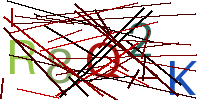
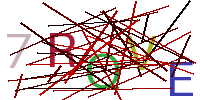
капча починка

diff --git a/static/javascript/captcha.js b/static/javascript/captcha.js
@@ -14,7 +14,7 @@ function new_captcha() {
             "Content-Type": "application/json",
         }
     });
-    $("#captcha_photo").html('<img src="/captcha.png/' + generatedCode + '{}">')
+    $("#captcha_photo").html('<img src="/captcha.png/' + generatedCode + '">')
 }
 
     $(document).ready(function() {

diff --git a/templates/index.html b/templates/index.html
@@ -10,8 +10,7 @@
       {% endif %}
     <div class="postcontent">
         <a href="{{post.href}}" class="post-title">{{post.title}}</a>
-        <p>{{post.text}}</p>
-        <p class="author"> Автор:</p>
+        <p>{{post.short}}</p>
     </div>
 </div>
   {%endfor%}

diff --git a/templates/post.html b/templates/post.html
@@ -60,7 +60,7 @@
 <div class="post-container">
 
     <h2>{{post.title}}</h2>
-    <p>{{post.content}}</p>
+    <p>{{content}}</p>
     {%for i in paths%}
     <img src="../{{i}}" style="width: 200px; height:150px;">
     {%endfor%}

diff --git a/static/css/style.css b/static/css/style.css
@@ -148,6 +148,7 @@ body {
             border-radius: 8px;
             background: #f9f9f9;
         }
+
 .container {
     max-width: 900px;
     margin: 60px auto;

diff --git a/data/functions.py b/data/functions.py
@@ -110,6 +110,30 @@ def captcha(word):
     # создаем объект в буфере
     f = BytesIO()
     # сохраняем капчу в буфер
-    img.save('captcha_image.png', "PNG")
+    img.save('materials/captcha_image.png', "PNG")
     # возвращаем капчу как байтовый объект
     return f.getvalue()
+
+def parse_post(content, post_id):
+    parsed = ''
+    tag_opened = False
+    tag = ''
+    for i in content:
+        if i == '<':
+            parsed += '<br>'
+            tag_opened = True
+            continue
+        if tag_opened:
+            if i == '-':
+               tag = '-'
+               continue
+            elif i == '>':
+                tag_opened = False
+                if tag == '-':
+                    parsed += '<br>'
+                else:
+                    parsed += f'<img src="/static/image/post_pictures/{post_id}_{tag}"<br>'
+        else:
+            parsed += i
+    return parsed
+

diff --git a/main.py b/main.py
@@ -277,12 +277,13 @@ def postt(id):
     else:
         user = 0
     post_ = post.to_dict()
+    content = parse_post(post.content, post.id)
     comments = []
     for i in post.comments:
         comments.append((i.content, i.user.name, i.user.href))
     session.commit()
     session.close()
-    return render_template('post.html', post=post_, p_id=post_['id'], button_text=button_text,
+    return render_template('post.html', post=post_, content=content, p_id=post_['id'], button_text=button_text,
                            paths=photo_paths, tags=session.query(Tag).all(), comment_form=comment_form,
                            author_name=author['name'], author_href=author['href'], comments=comments,
                            user=user, liked=liked)

diff --git a/tests.py b/tests.py
@@ -32,7 +32,12 @@ def make_db():
 
 
 def main():
-    make_db()
+    db_session.global_init('db/wikiforum.db')
+    sess = db_session.create_session()
+    posts = sess.query(Post).all()
+    for i in posts:
+        print(i.content)
+
 
 main()
 

diff --git a/data/config.py b/data/config.py
@@ -1,3 +1,3 @@
-SHORT_POST_LENGTH = 50
+SHORT_POST_LENGTH = 150
 ALLOWED_EXTENSIONS = ['txt', 'pdf', 'png', 'jpg', 'jpeg', 'gif']
 STANDART_PHOTO = ''
